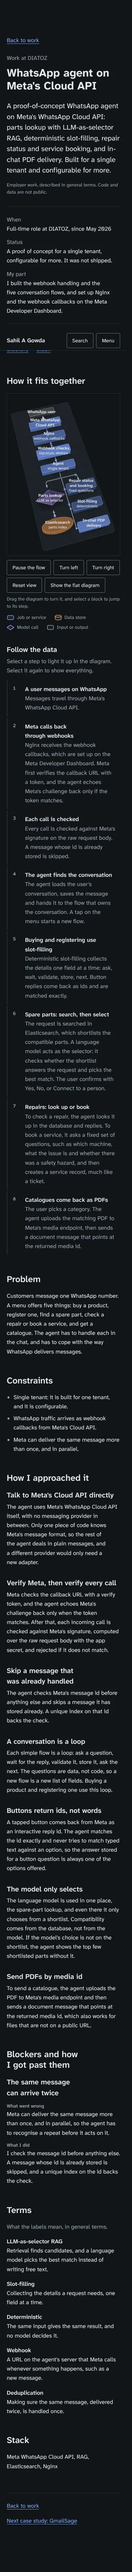
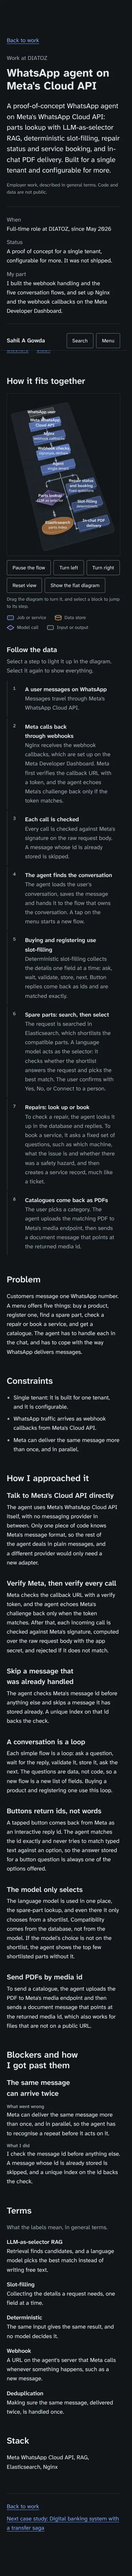
docs: sources, evidence and screenshots for the Digital Banking System
- SOURCES.md: a ledger for the new page, and where the README, the code and
  the site text differ or are silent (including what I noticed in the
  repository).
- EVIDENCE.md: accessibility, contrast, keyboard, 3D behaviour, search, link
  and overflow checks for the new page, and the open items for this change.
- DESIGN_PLAN.md: why Kafka is a box and Redis and MySQL are not drawn.
- New screenshots of the page and its diagram. All 14 case-study screenshots
  are retaken with a capture that waits for the 3D scene to settle and checks
  it was not restarted mid-capture; the old capture could catch the scene
  part-way through its intro animation. The home page is retaken too.
- link-check.tsv now includes the new page.

Claude-Session: https://claude.ai/code/session_01BAe9Xcf4g5TDwPVbYsfmix

diff --git a/docs/v2/SOURCES.md b/docs/v2/SOURCES.md
@@ -57,3 +57,36 @@ Rule from the brief: every title, date, number and claim traces to `resume-lates
 | Numbers from your messages that are on neither the old resume nor in the Facts: around 16 hours per million records, about 1.5 to 2 minutes per million, 10 million records in 12 to 14 minutes, 273 files, 4,000 stores, 4 to 5 seconds, 7+ reports | Your messages of 9 October. They are sizes and speeds of employer systems, so they sit under the brief's confidentiality line ("no data volumes beyond what the Facts list"). They are in `projects.ts`, `caseStudies.ts`, `experience.ts` and the resume. **check** that you want each public; removing one is a one-line edit |
 | Resume (`docs/v2/resume/Sahil-A-Gowda-Resume.tex`, compiled to `public/Sahil-A-Gowda-Resume.pdf`) | The LaTeX you sent on 9 October, with only these edits, each from the sources above: "Reworked" instead of "Built" for the ingestion pipelines; the Excel fix as a validation-flow rework instead of SXSSF streaming (SXSSF stays with the report downloads); the master-data speed-up (16 hours to 1.5 to 2 minutes per million); the report latency as 4 to 5 s to 400 ms with the backfill and async indexing; the RAG chatbot as a proof of concept that chose Milvus over Pinecone; the WhatsApp agent as a single-tenant proof of concept, with the client's name removed; 4,000 stores; the B.E. without "(Expected)" and the AWS item as a Udemy course certificate (your answers at Checkpoint A); Spring Batch, FastAPI, Liquibase and Apache POI added to the skills lines. The rest is your text, including the phone number and the LeetCode and HackerRank claims, which I could not check. It compiles to one page with TeX Live 2023. **check** |
 | 3D and flat diagrams, and the moving dots | Drawn from the same node and edge data (`src/data/diagrams.ts`) as the flat diagrams on the home page. The 3D view adds no component and no arrow, only height, a camera and moving dots. The dots show the direction of flow, not volume or timing: their speed and count are decorative |
+
+## Digital Banking System (added 17 October 2026)
+
+Source: the public repository `SahilAGowda/Digital-Banking-System`, read from a shallow clone of its only commit (`4b77227`, "Initial commit: Digital Banking System microservices", 15 October 2026): the README, `docker-compose.yml`, and the `pom.xml`, `application.yaml` and Java source of the six modules. I did not run the services, so every line below is what the code and README say, not something I watched happen. "Your message of 17 October" is the one that asks for the project to be added and gives the link.
+
+| On the site | Source |
+|---|---|
+| The project, its place in Selected work as a personal project, the repository link | Your message of 17 October ("as a personal project I have built the Digital-banking-system", with the GitHub link). It is first among the personal projects because it is the newest and the most on-stack; one line in `src/data/projects.ts` moves it |
+| "Built from about 29 September to 15 October 2026" | Your message of 17 October ("I started working from September 29 I guess, I completed it on October 15"); "about" keeps your "I guess". The repository's single commit is dated 15 October |
+| "I built the six services, the gateway routes and the Docker Compose setup" | Your message ("I have built"), the repository's single author, and `docker-compose.yml` (Redis 7.4, ZooKeeper, Kafka, MySQL 8.4); you confirmed it ("yes I know it's correct") |
+| Six services (gateway, account, transaction, payment, fraud detection, notification) | The six modules and the README's service table. Ports are not on the site |
+| Nine Kafka topics, who produces and who consumes each | The README's topic table, checked against every `@KafkaListener(topics = ...)` and `kafkaTemplate.send(...)` in the code |
+| The transfer: debit the sender over REST first, save as `PROCESSING`, publish `transaction.initiated`, then the clean path or the OTP path | `TransactionService.transfer`, `processCleanResult`, `completeTransaction`, `TransactionEventConsumer`, the account service's `AccountEventConsumer`, and the README's "Transfer Flow (Saga)" |
+| Six-digit OTP, kept in Redis for five minutes, transfer waits as `PENDING_VERIFICATION` | `TransactionEventConsumer.java` (`OTP_EXPIRY_MINUTES = 5`, `String.format("%06d", ...)`) |
+| A wrong OTP blocks the sender's account and refunds; an expired OTP refunds; a refund sets `FLAGGED` and publishes `transaction.refunded` | `TransactionService.verifyOtp`, `compensateTransaction`, `blockAccountAndCompensate`; the block itself is `AccountEventConsumer.consumeFraudDetected` |
+| The three fraud rules and their limits (more than 5 transfers in 60 seconds; more than 5 times a running average; more than 90% of the balance), first match wins | `FraudDetectionService.java` and the `fraud.*` settings in the fraud service's `application.yaml`; the README's rules table |
+| Gateway routes and rate limits (10 a second, burst 20, for accounts and transactions; 5 and 10 for payments; per client address) | `api-gateway/src/main/resources/application.yaml` and `RateLimiterConfig.java` |
+| A MySQL database for each of the account, transaction and payment services, created on the first start; counters in Redis for the fraud service; the notification service only reads events | The three `application.yaml` files (`createDatabaseIfNotExists`, `ddl-auto: update`), the fraud service's `RedisTemplate`, and the notification service having no datasource. The README's "Configuration Notes" say the same. Database names are not on the site |
+| Payments: a Razorpay order in paise and INR, saved as `CREATED`; a captured payment becomes `COMPLETED` and a failed one `FAILED`, each published to Kafka. "The Razorpay keys in the repository are placeholders" | `PaymentService.java`; the README's "Payment Flow" and "Configuration Notes"; `payment-service/src/main/resources/application.yaml`. The site does not say the payment flow was run against Razorpay, because the keys are placeholders |
+| "The notification service logs the alerts" | `NotificationService.sendAlert` only writes log lines, and the README says "Alerts are currently logged" |
+| "A repeated event does nothing" (the `PROCESSING` check) and the constraint "a fraud result that arrives twice must not complete a transfer twice" | `TransactionService.processCleanResult` and `TransactionEventConsumer.consumeVerificationRequired`, whose comment says "to prevent double credit" |
+| The diagram | Drawn from the rows above. Kafka is a box, because a service drawn as a drum left gaps where the arrows met it in 3D. Redis and MySQL are not drawn: Redis serves three services and MySQL three, and the arrows would cross; they are in the steps and in "How I approached it" instead. The fraud service's REST call to the account service is in the steps, not drawn |
+| "Terms" (saga, compensating step, choreography, OTP step-up, idempotency guard, OpenFeign) | General meanings, not claims about the build |
+| Blockers: not knowing the saga pattern, understanding how Kafka works, and what a real bank checks for | Your message of 17 October: "hard as such understanding the saga pattern, how distributed systems work, how microservices communicate, if anything failed how do we handle it, I didn't have any idea about it, learnt the saga pattern"; "understand how Kafka works properly helps"; and the fraud-detection part, "what all things we can consider to protect from the attacker which the banks are currently doing to protect our account". The sentence about the debit and the compensating credit restates the code (`TransactionService`). These are my wording of your words, so read them |
+| "Next": thinking of machine learning in the fraud service, for mule accounts and the networks they form | Your message of 17 October ("thinking to implement machine learning later to do the mule detection and other things to identify the mule network and make the fraud detection service much better"). It is a plan, and the page says "thinking of" |
+| No Results section | The repository has no measured outcome, and its tests are only the generated `contextLoads` tests, so nothing is sourced |
+
+**Where the README, the code and the site text differ or are silent**
+
+- **Balance rule.** The transfer debits the sender before the event is published, so the fraud service reads the balance after the debit. The site says "when the check runs".
+- **Unusual-amount rule.** The running average is updated as (old average + amount) / 2. The reason string in the code says "3 times" while the setting is 5; the site uses the setting.
+- **Not on the site, because the code does not do it.** The daily transaction limit is stored and returned but never enforced. The payment webhook does not check Razorpay's signature (a `webhook-secret` setting exists but nothing reads it). The payment and notification services declare a mail starter that nothing uses. The only tests are the generated `contextLoads` ones.
+- **Noticed while reading, for you, not on the site.** (1) `TransactionService.verifyOtp` never checks the transfer's status, so calling it for a transfer that already completed (no OTP key exists) takes the "expired" path and refunds the sender a second time. (2) The webhook handler reads `orderId` and `paymentId` from Razorpay's payload; as far as I know Razorpay's names are `order_id` and `id`, which I did not test. (3) The OTP comes from `Math.random()`. (4) `AccountController.blockAccount` has a `@PutMapping` with no `{accountNumber}` in its path, so that endpoint cannot work; the blocking that matters goes through Kafka.

diff --git a/docs/v2/after/EVIDENCE.md b/docs/v2/after/EVIDENCE.md
@@ -158,6 +158,34 @@ Two readings to be careful with. The home page's three mobile runs were 330, 78 
 
 **What I could not test:** a real GPU, a real phone, and the Vercel preview (unchanged from above).
 
+## Update, 17 October: the Digital Banking System
+
+Asked for after `portfolio-v2` was merged into `main` and deployed. The change is on its own branch, `feature/digital-banking-system`, started from the merged `main`. Nothing is merged and no pull request is open. Every claim is traced in [`../SOURCES.md`](../SOURCES.md), last section. Same limits as above: local only, software WebGL only.
+
+**What changed.** One personal project, "Digital banking system with a transfer saga": a row in Selected work (first among the personal projects), a case-study page with a diagram and nine "Follow the data" steps, and a link to the repository. Seven case studies instead of six. The page has three blockers, in your words of 17 October, and no Results section, because nothing in the repository is a measured outcome. The files changed are `src/data/projects.ts`, `caseStudies.ts` and `diagrams.ts`, the README's case-study count, and these notes. No component, dependency or config file.
+
+**Cost.** Main JavaScript 291.5 to 295.7 kB (95.3 to 96.6 kB gzip): the new text and diagram data. CSS and the 3D chunk are unchanged (23.9 kB; 609.3 kB, 157.0 kB gzip). I did not run Lighthouse again for a change of that size.
+
+**Accessibility and behaviour**
+- **axe-core: 0 violations** in 40 runs: the home page, and the new page, the WhatsApp page (it now ends with a link to the new page) and the GmailSage page, each in three states (3D, 3D with a step selected, flat), light and dark, at 1440 and 390 px. The home page and the new page were run again after the last text change, with the same result.
+- **Rendered contrast:** all 56 labels of the new diagram, both themes and both widths; the worst tenth of the pixels behind any label is 5.13:1, against 4.5:1.
+- **Keyboard:** 33 tab stops on the new page, every one with a ring; the canvas is not a tab stop.
+- **3D behaviour on the new diagram** (all pass, console clean): hover gives a pointer, clicking a block selects its step ("Step 1 of 9"), step buttons set `aria-pressed`, turn, reset and drag change the view, no frames are drawn while paused, the flat toggle removes the canvas and a step still dims the rest, and 3D comes back.
+- **No horizontal scroll** on the new page or the home page at 320, 360, 390, 430, 768, 1024, 1440 and 1920 px. The first version of step 7 named the full verify path as inline code, and that one unbreakable string pushed the page wider than a 320 or 360 px screen; it now says "the `verify` endpoint".
+- **Search** finds the new content (`saga`, `kafka`, `otp`, `razorpay`, `velocity`, `banking`).
+- **Link check:** 82 links, 5 unverifiable (the profile sites, as before), 0 problems; the repository link answers 200.
+- **Build-time checks** pass: both layouts of the diagram have the same nodes, and every walkthrough step names nodes and arrows the diagram draws.
+
+**Diagram.** Five services in a row over one Kafka bar, the client and the gateway above, Razorpay beside the payment service; dashed arrows are Kafka, solid are REST. The first try (Kafka as a drum, two rows of services) crowded its labels in 3D and left gaps where arrows met the drum, so the second is wider and shorter and Kafka is a box. Redis and MySQL are not drawn (SOURCES.md says why).
+
+**What I could not test.** The Vercel preview of this branch (it builds on every push, but I could not open it from here), a real GPU or phone, and the services themselves: I did not run them, so the page says what the code does, not what I saw it do.
+
+**Open items for this change**
+1. **Read the blockers.** They are my wording of your message (the saga pattern, how Kafka works, what a real bank checks for). Change anything that does not sound like you. "When" says "about 29 September to 15 October 2026", keeping your "I guess".
+2. **Resume.** Not changed. It is one page and full, so adding this would mean cutting something (GmailSage did not fit either). Say if you want it swapped in.
+3. **Things I noticed in the repository** (the full list is in SOURCES.md; none is on the site): `verifyOtp` has no status check, so verifying a completed transfer refunds the sender again; the Razorpay webhook handler reads `orderId` and `paymentId` where Razorpay, I believe, sends `order_id` and `id`, and it does not check signatures; the OTP is made with `Math.random()`; the daily limit is stored but not enforced; the only tests are the generated ones.
+4. **Next, the design.** Splitting company work from personal projects is the next change, and it comes after this one.
+
 ## Open items for Sahil
 
 1. **Resume PDF.** Updated on 9 October from the LaTeX you sent (see item 8): `public/Sahil-A-Gowda-Resume.pdf` is the compiled result and `docs/v2/resume/Sahil-A-Gowda-Resume.tex` is the source, one page. The client's name is off it, as you asked. It still contains your phone number (+91-9945886311), as before, and the site serves this file, so the number is public once this is merged. Tell me if the web copy should leave it out.

diff --git a/docs/v2/DESIGN_PLAN.md b/docs/v2/DESIGN_PLAN.md
@@ -500,3 +500,10 @@ Sahil's reply to the request for "what was hardest" showed that the first case s
 - **Where the content came from.** The pages describe mechanisms (partitioned workers, multi-row insert-or-update, validate once and save in the background, a duplicate-message check) and leave out class, endpoint and table names, the CSV's columns, configuration values and the client's name. `SOURCES.md` lists every claim and how each disagreement between his account and the resume was settled.
 - **Diagrams.** Two new ones, and new nodes on three old ones: a download node on report search, a service-API node on the RAG chatbot, and webhook checks, Elasticsearch and repair status on the WhatsApp agent. Lane captions that stood behind a node in the 3D view are now notes under the diagram.
 - **Corrections the same day.** A second reply from Sahil corrected the report-search approach (the reports read ticket data; the old tickets were backfilled into Elasticsearch, new ones are indexed asynchronously, and nothing is sent asynchronously to the database), replaced the latency figure with 4 to 5 s to 400 ms, added the speed results of the master-data load (a million records in about 1.5 to 2 minutes, from 16 hours), said why Milvus was chosen, and made the WhatsApp agent a single-tenant proof of concept that was not shipped. The client's name is off the site and the resume. The diagram for report search gained an indexing step and lost its "async updates to PostgreSQL" arrow. In the 3D scene the eight ridges of a diamond are now drawn at half the strength of its outline: with the corrected diagrams, the lines under the label of the small phone-layout diamond held its text under 4.5:1. That node is also as wide as its column now.
+
+## Revision, 17 October 2026: a bus diagram for the banking project
+
+Added with the Digital Banking System case study (branch `feature/digital-banking-system`). It changes no rule above; it records two drawing choices.
+
+- **Kafka is a box.** The grammar says a cylinder is a store and a box is a job or service. A message broker is drawn as a box, a wide one under the five services, so every service reaches it with a short vertical arrow. A first version drew it as a drum; at 360 units wide, the arrows that met it off-centre stopped short of it in 3D, and two rows of services pushed the labels into each other.
+- **Dashed means Kafka, solid means REST.** The legend still says "asynchronous or a check", which is true here. Redis and MySQL are named in the steps and the text, not drawn, because Redis serves three services and MySQL three, and their arrows would cross the bus.
